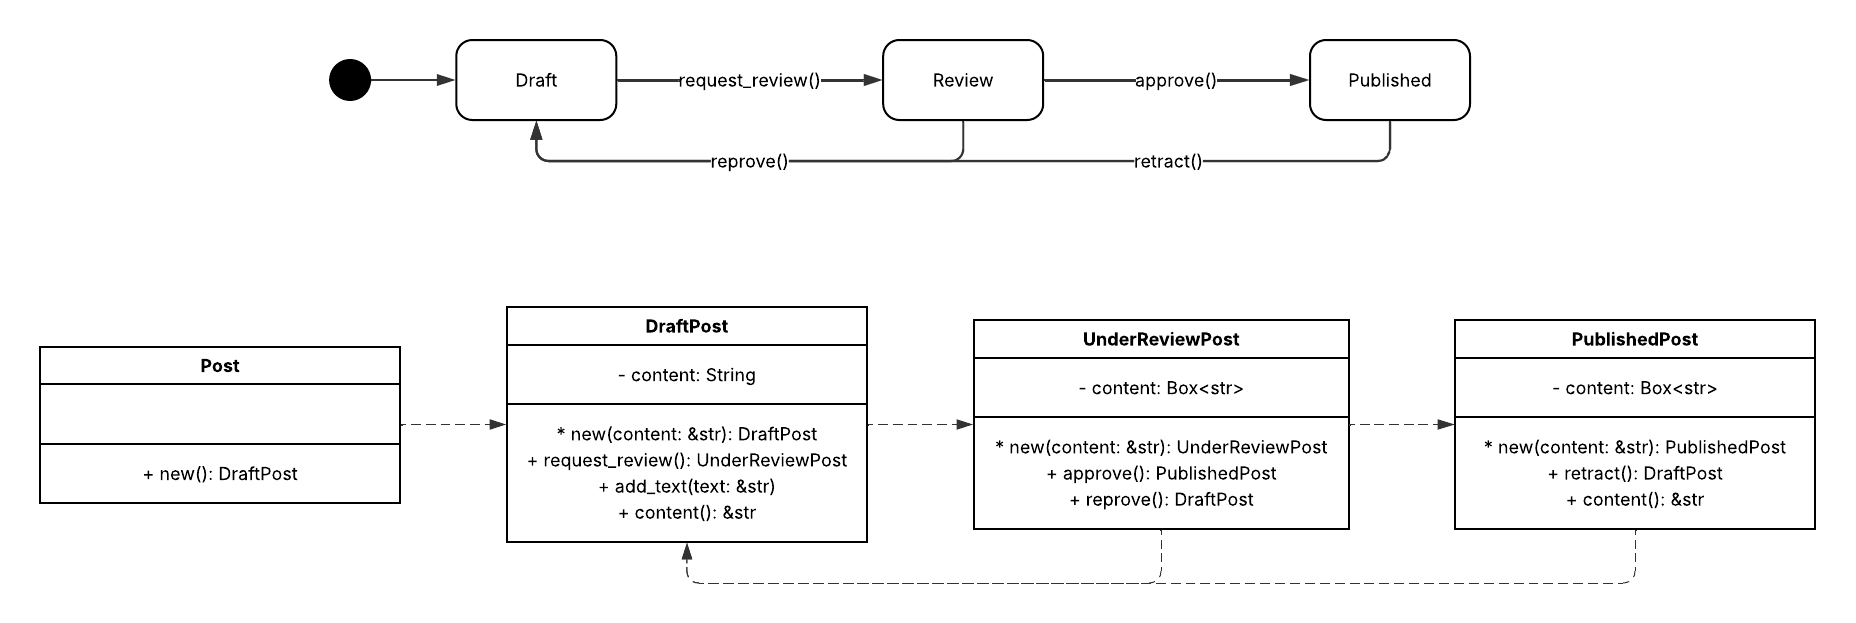
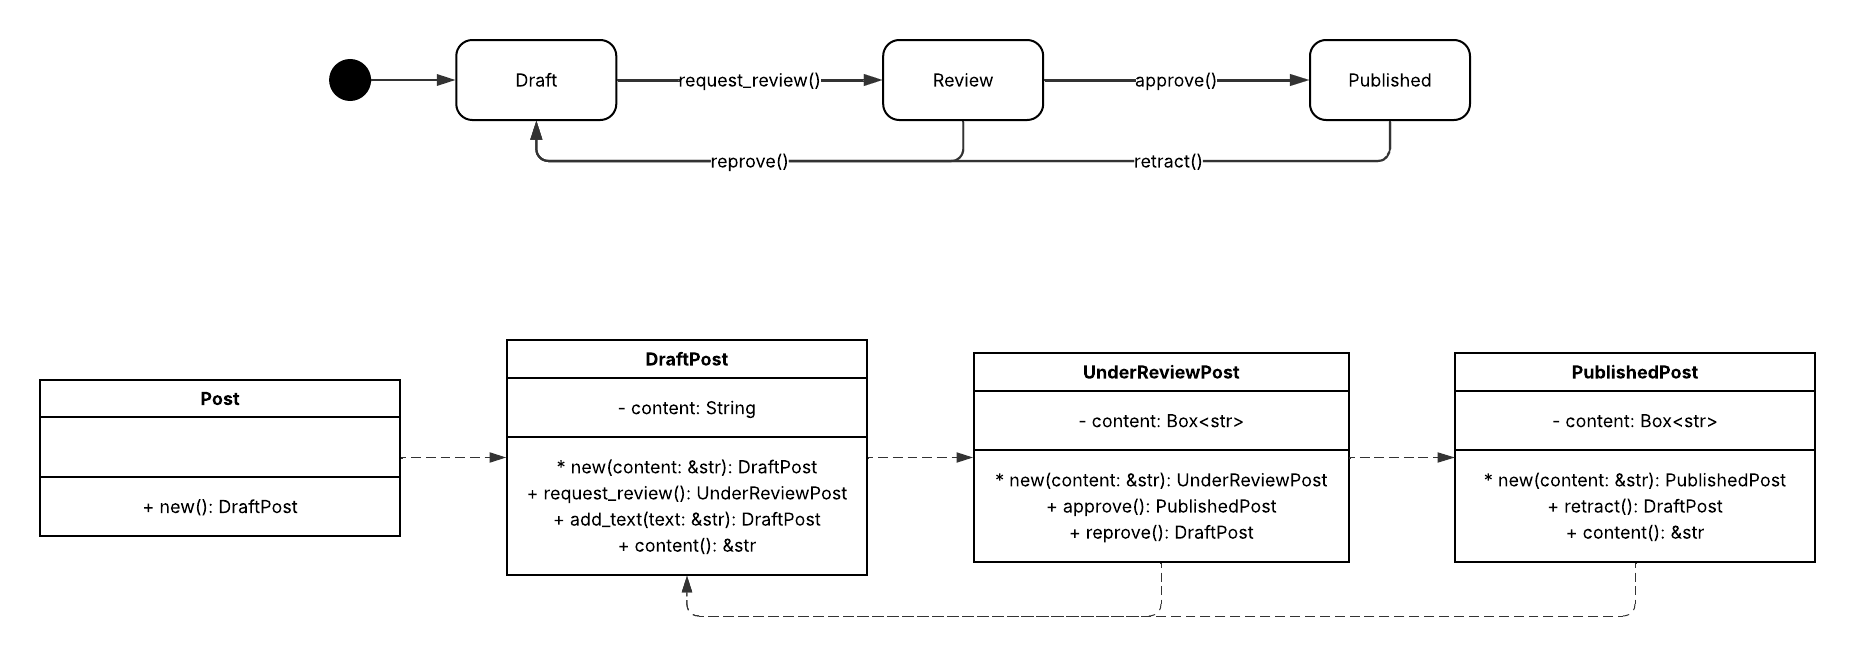
refactor(post): change add_text to return self for method chaining
Updated the add_text method in DraftPost to return self, enabling method chaining.
Modified the corresponding test to reflect this change for improved clarity and consistency.

diff --git a/src/post/draft.rs b/src/post/draft.rs
@@ -15,8 +15,9 @@ impl DraftPost {
         &self.content
     }
 
-    pub fn add_text(&mut self, text: &str) {
+    pub fn add_text(mut self, text: &str) -> Self {
         self.content += text;
+        self
     }
 
     pub fn request_review(self) -> UnderReviewPost {
@@ -36,8 +37,7 @@ mod tests {
 
     #[test]
     fn add_text_append_to_content() {
-        let mut post = DraftPost::new("appended_");
-        post.add_text("content");
+        let post = DraftPost::new("appended_").add_text("content");
         assert_eq!("appended_content", post.content());
     }
 
